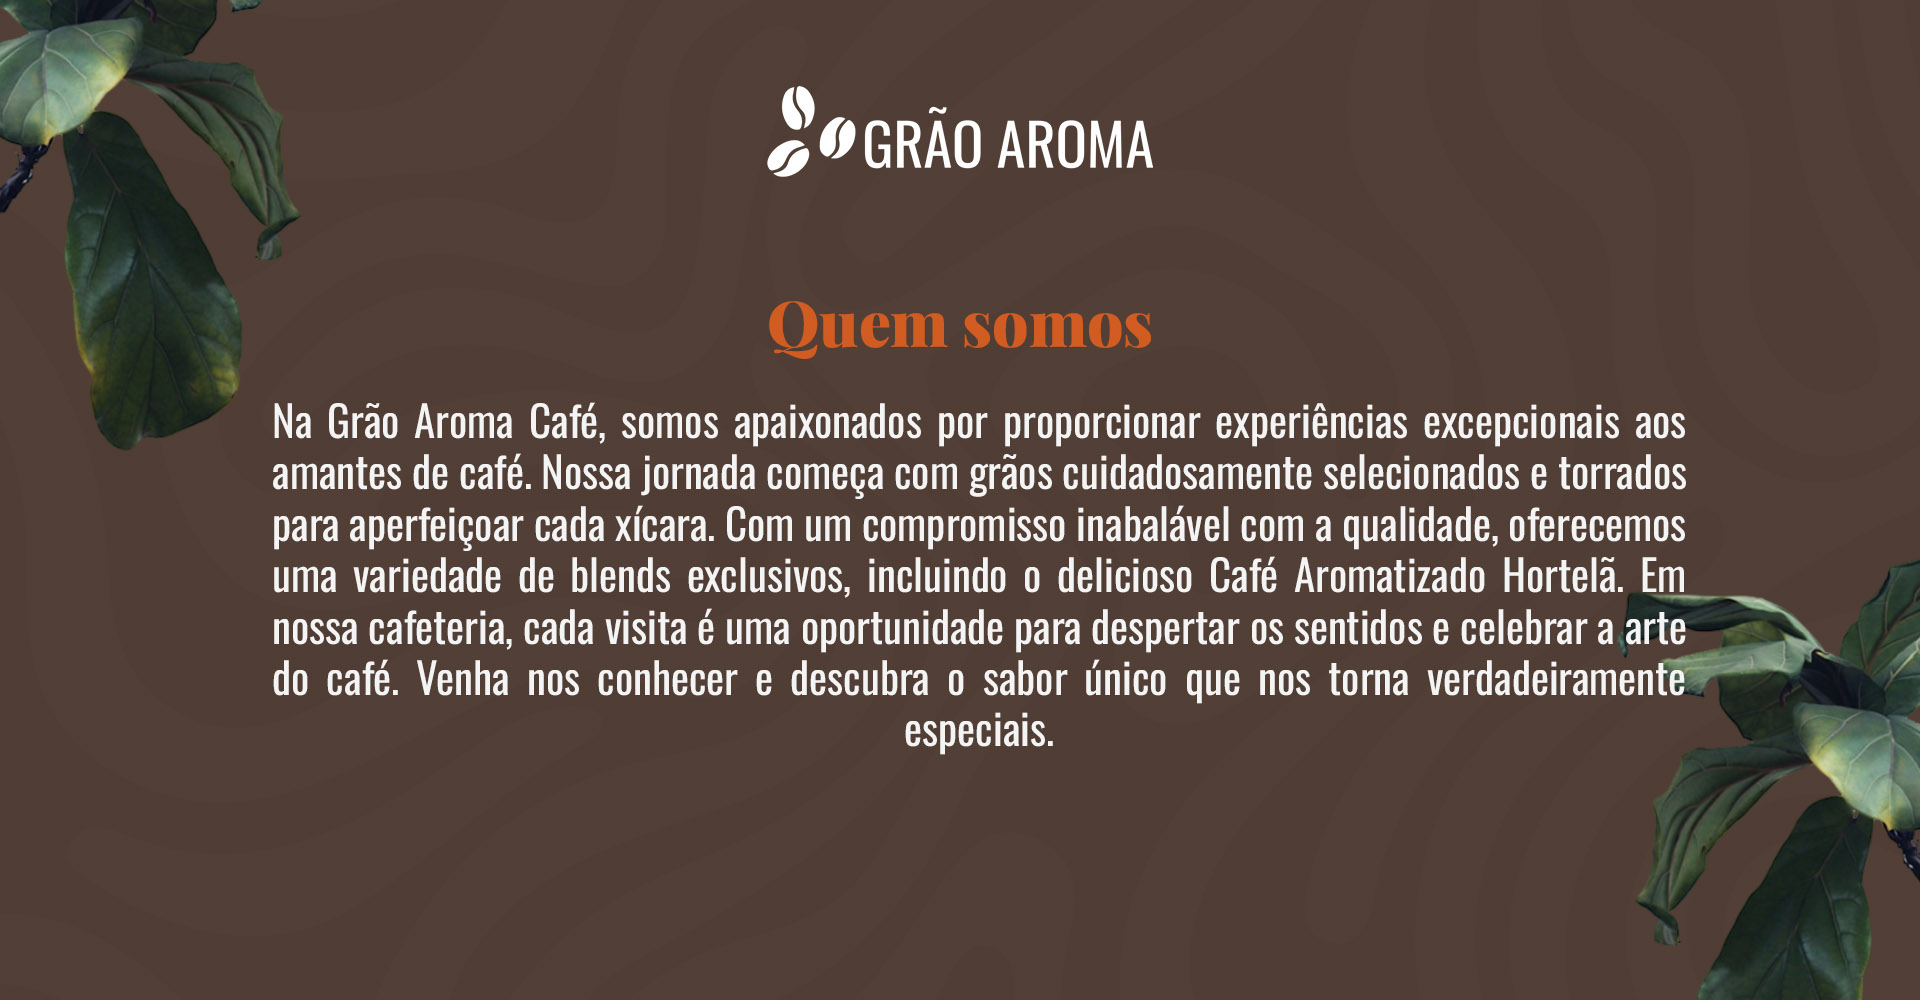
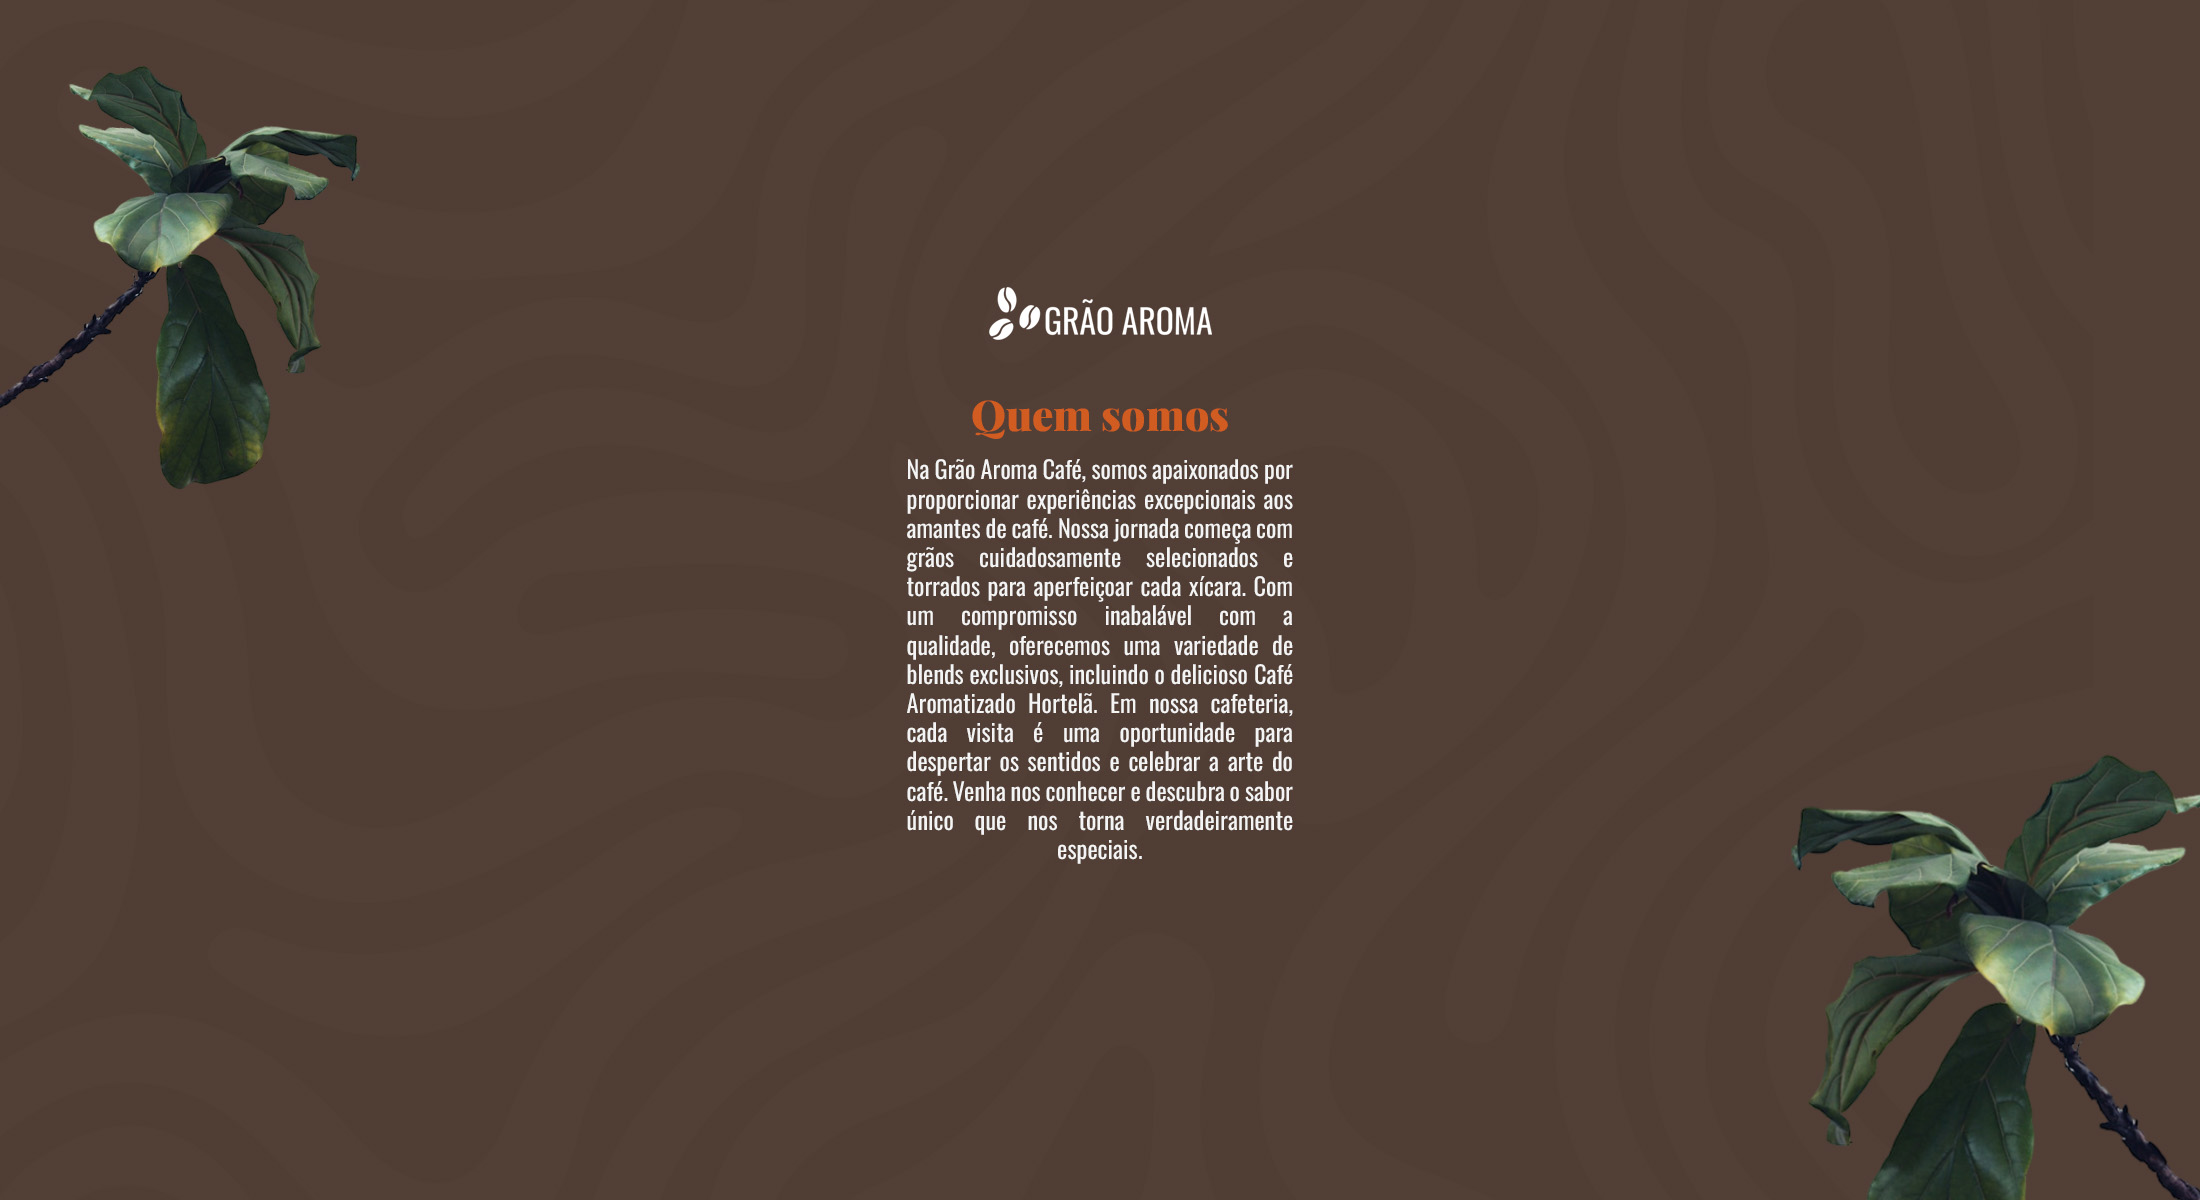
atualização mq

Changed region(s): [[0.0, 0.0, 1.0, 1.0], [0.375, 0.093, 0.625, 0.186], [0.4375, 0.248, 0.5625, 0.279]]

diff --git a/estilos/style.css b/estilos/style.css
@@ -262,11 +262,11 @@ p#pdestaque{
 
 #identidade > div{
     width: 100vw;
-    height: 90vh;
+    height: 100vh;
 }
 .quemsomos{
     width: 100%;
-    height: 80%;
+    height: 100%;
     background-image: url(../imagens/quemsomosp.jpg);
     background-attachment: fixed;
     background-size: cover;
@@ -276,7 +276,7 @@ p#pdestaque{
 
 .atendimento{
     width: 100%;
-    height: 80%;
+    height: 100%;
     background-image: url(../imagens/atendimentop.jpg);
     background-attachment: fixed;
     background-size: cover;
@@ -286,7 +286,7 @@ p#pdestaque{
 
 .cafeteria{
     width: 100%;
-    height: 80%;
+    height: 100%;
     background-image: url(../imagens/cafeteriap.jpg);
     background-attachment: fixed;
     background-size: cover;

diff --git a/estilos/telasgrande.css b/estilos/telasgrande.css
@@ -68,6 +68,23 @@ p#pdestaque{
 
 #buttoncardapio{
     width: 180px;}
+
+
+    .quemsomos{
+        background-image: url(../imagens/quemsomosm.jpg);
+    }
+    
+    .atendimento{
+        background-image: url(../imagens/atendimentom.jpg);
+      
+    }
+    
+    .cafeteria{
+   
+        background-image: url(../imagens/cafeteriam.jpg);
+        
+    }
+    
   
 
 

diff --git a/estilos/telasmaiores.css b/estilos/telasmaiores.css
@@ -69,3 +69,19 @@ p#pdestaque{
 #buttoncardapio{
     width: 180px;
 }
+
+
+.quemsomos{
+    background-image: url(../imagens/quemsomosg.jpg);
+}
+
+.atendimento{
+    background-image: url(../imagens/atendimentog.jpg);
+  
+}
+
+.cafeteria{
+
+    background-image: url(../imagens/cafeteriag.jpg);
+    
+}
